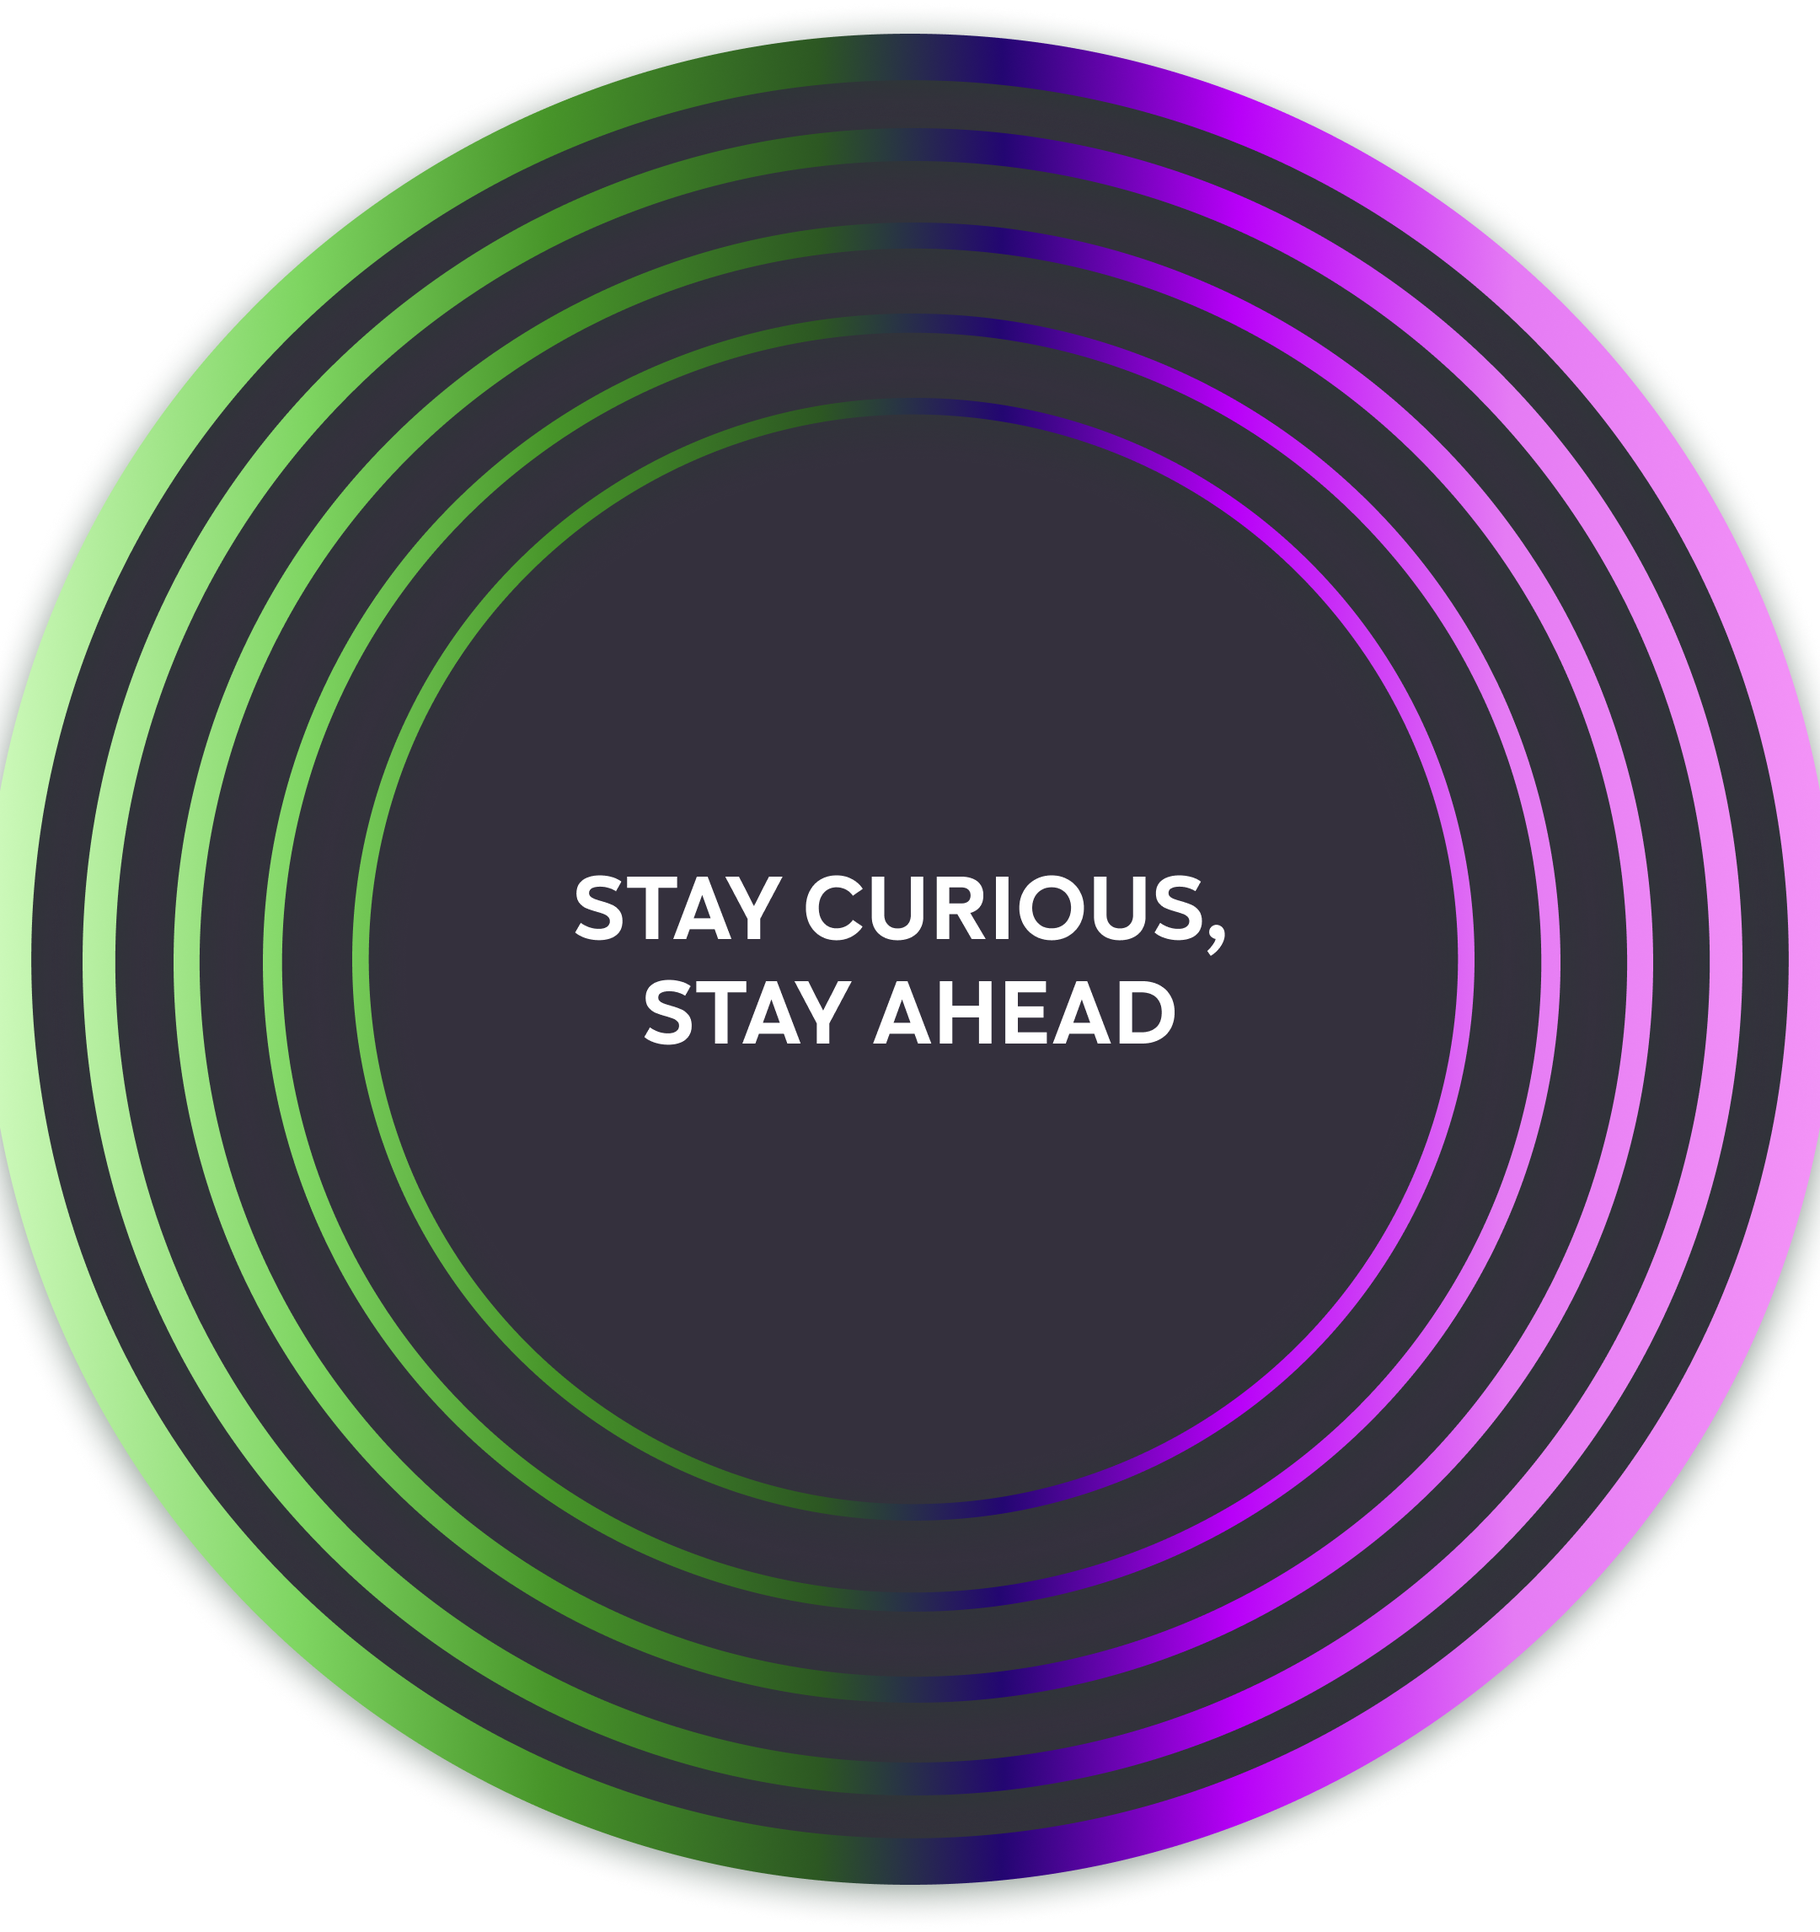
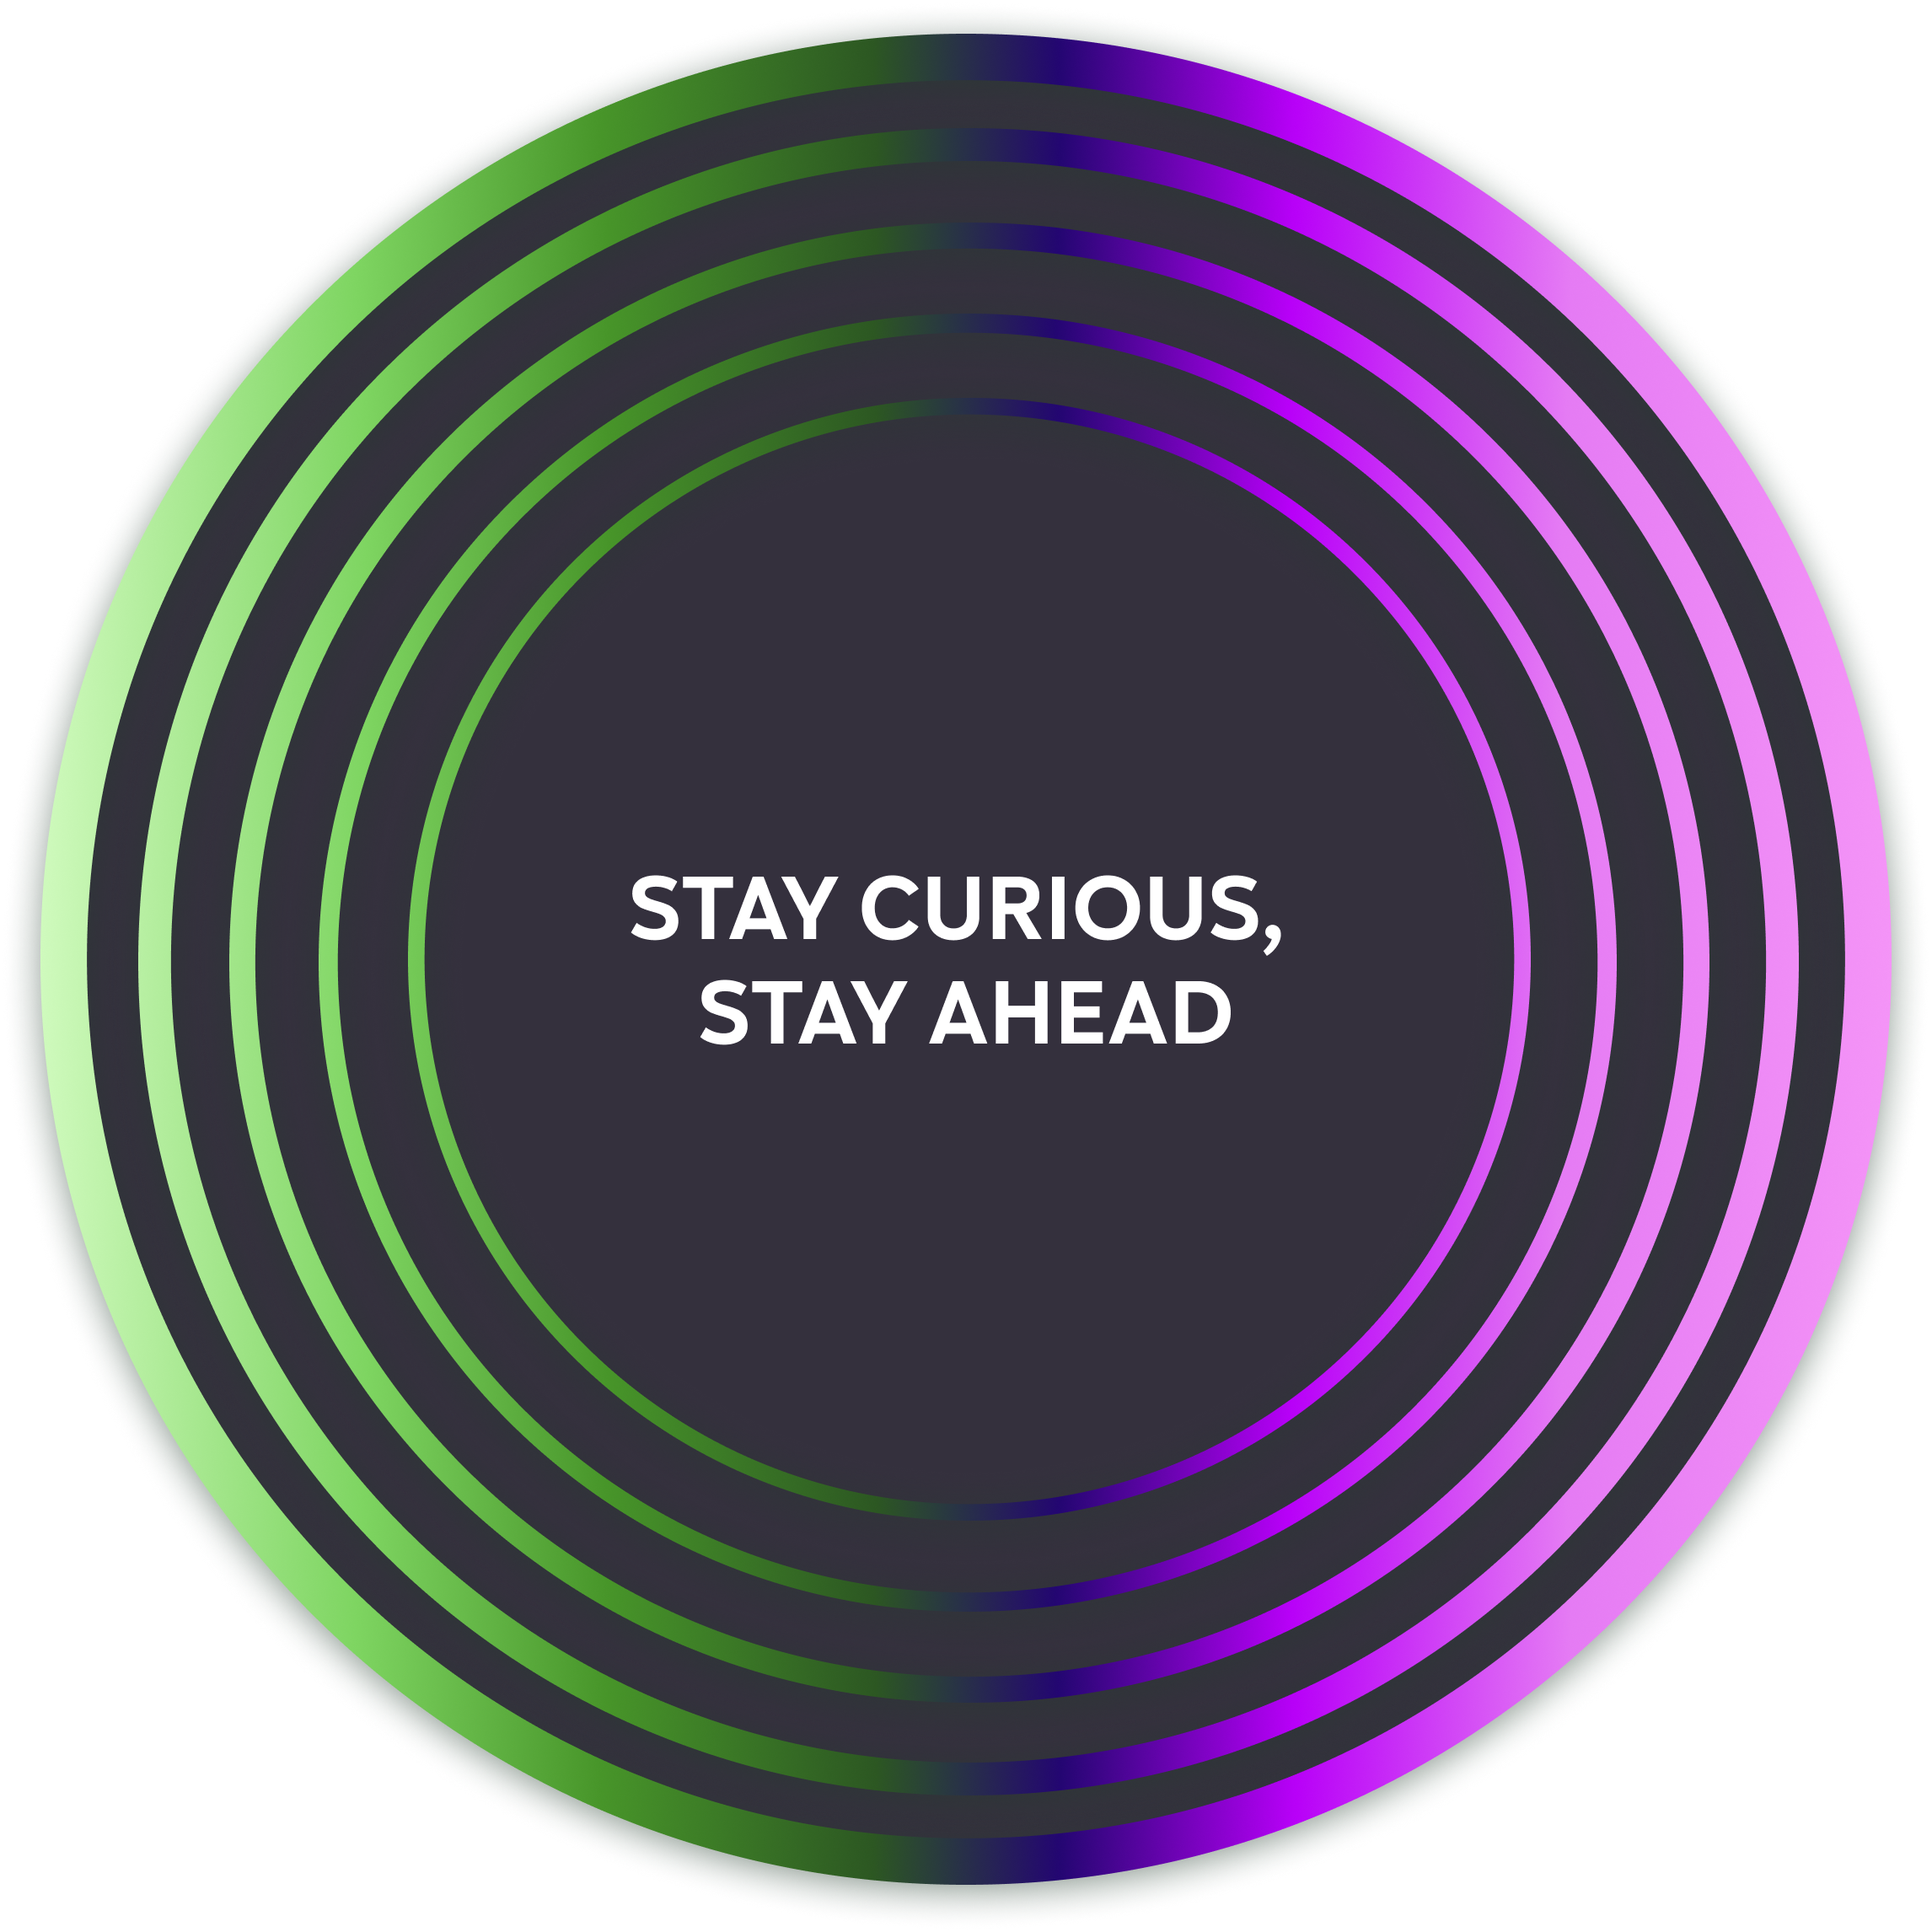
fix circle animation

diff --git a/js/app-iqos.js b/js/app-iqos.js
@@ -58,9 +58,13 @@ function goToGameplay(){
     $("#sectionGameplay").removeClass("hide")
     $(".circle").removeClass("off")
 }
+// DEBUG
+// goToGameplay()
 
 function gameEnd(win){
     perfectSound.play()
+    finished = false
+    reset()
     pageStatus = 'endGame'
     $(".circle").addClass("off")
     if(win == 1){
@@ -98,8 +102,6 @@ function onKey1() {
         pageStart(1)
     }else if(pageStatus == 'playerReady'){
         goToCountdown()
-    }else if(pageStatus == 'gameplay'){
-        gameEnd(1)
     }
 }
 
@@ -108,48 +110,178 @@ function onKey2() {
         pageStart(2)
     }else if(pageStatus == 'playerReady'){
         goToCountdown()
-    }else if(pageStatus == 'gameplay'){
-        gameEnd(2)
     }
 }
 
   // Helper: abaikan jika user sedang mengetik di field form
-  function isTypingInField(el) {
-    if (!el) return false;
-    const tag = el.tagName ? el.tagName.toLowerCase() : '';
-    const editable = $(el).attr('contenteditable') === 'true';
-    return tag === 'input' || tag === 'textarea' || editable;
-  }
+//   function isTypingInField(el) {
+//     if (!el) return false;
+//     const tag = el.tagName ? el.tagName.toLowerCase() : '';
+//     const editable = $(el).attr('contenteditable') === 'true';
+//     return tag === 'input' || tag === 'textarea' || editable;
+//   }
 
-  // Tangkap keydown sekali (hindari repeat)
-  let pressed = new Set();
+//   // Tangkap keydown sekali (hindari repeat)
+//   let pressed = new Set();
 
-  $(document).on('keydown', function (e) {
-    if (isTypingInField(document.activeElement)) return;
+//   $(document).on('keydown', function (e) {
+//     if (isTypingInField(document.activeElement)) return;
 
-    // e.key akan '1' / '2'
-    // e.code bisa 'Digit1' / 'Numpad1'
-    const is1 = e.key === '1' || e.code === 'Digit1' || e.code === 'Numpad1';
-    const is2 = e.key === '2' || e.code === 'Digit2' || e.code === 'Numpad2';
+//     // e.key akan '1' / '2'
+//     // e.code bisa 'Digit1' / 'Numpad1'
+//     const is1 = e.key === '1' || e.code === 'Digit1' || e.code === 'Numpad1';
+//     const is2 = e.key === '2' || e.code === 'Digit2' || e.code === 'Numpad2';
 
-    if (is1 && !pressed.has('1')) {
-      pressed.add('1');
-      e.preventDefault();
-      onKey1();
+//     if (is1 && !pressed.has('1')) {
+//       pressed.add('1');
+//       e.preventDefault();
+//       onKey1();
+//     }
+//     if (is2 && !pressed.has('2')) {
+//       pressed.add('2');
+//       e.preventDefault();
+//       onKey2();
+//     }
+//   });
+
+//   // Lepaskan status saat keyup supaya bisa dipicu lagi
+//   $(document).on('keyup', function (e) {
+//     if (['1', 'Digit1', 'Numpad1'].includes(e.key) || e.code === 'Digit1' || e.code === 'Numpad1') {
+//       pressed.delete('1');
+//     }
+//     if (['2', 'Digit2', 'Numpad2'].includes(e.key) || e.code === 'Digit2' || e.code === 'Numpad2') {
+//       pressed.delete('2');
+//     }
+//   });
+
+
+// =====================================================
+    // Geometry
+    const cx = 300, cy = 300, r = 153;
+    const rOuter = 240;
+    const step = 6; // derajat per tekan
+    // Start di bawah (180°)
+    let greenAngle  = 180; // bergerak ke 0 (CCW)
+    let purpleAngle = 180; // bergerak ke 360 (CW)
+    let finished = false;
+  
+    const $gArc = $("#greenArc");
+    const $pArc = $("#purpleArc");
+    const $gOrb = $("#greenOrb");
+    const $pOrb = $("#purpleOrb");
+  
+    function toRad(d){ return d * Math.PI/180; }
+    function polar(angleDeg, radius = r) {
+        const a = toRad(angleDeg);
+        return { x: cx + radius * Math.cos(a), y: cy + radius * Math.sin(a) };
     }
-    if (is2 && !pressed.has('2')) {
-      pressed.add('2');
-      e.preventDefault();
-      onKey2();
+  
+    // SVG arc path dari angle A ke B, arah CW/CCW
+    function arcPath(fromDeg, toDeg, sweepCW){
+      // clamp
+      if (sweepCW) { if (toDeg < fromDeg) toDeg = fromDeg; }
+      else { if (toDeg > fromDeg) toDeg = fromDeg; }
+  
+      const start = polar(fromDeg);
+      const end   = polar(toDeg);
+      const delta = Math.abs(toDeg - fromDeg);
+      const large = (delta > 180) ? 1 : 0;
+      const sweep = sweepCW ? 1 : 0;
+      return `M ${start.x.toFixed(2)} ${start.y.toFixed(2)} A ${r} ${r} 0 ${large} ${sweep} ${end.x.toFixed(2)} ${end.y.toFixed(2)}`;
     }
-  });
+  
+    function placeOrb($el, angle, radius = r) {
+        const p = polar(angle, radius);
+        $el.attr({ cx: p.x, cy: p.y });
+    }
+    function placeOrbImage($el, angle, radius, size) {
+        const p = polar(angle, radius);
+        $el.attr({
+          x: p.x - size/2,
+          y: p.y - size/2
+        });
+    }
+  
+    function draw(){
+      // green: dari 180 -> greenAngle (CCW)
+      $gArc.attr('d', arcPath(180, greenAngle, /*CW?*/ false));
+      // purple: dari 180 -> purpleAngle (CW)
+      $pArc.attr('d', arcPath(180, purpleAngle, /*CW?*/ true));
+  
+    //   placeOrb($pOrb, greenAngle, rOuter);
+    //   placeOrb($gOrb, purpleAngle, rOuter);
+      
+      placeOrbImage($pOrb, greenAngle, rOuter, 80);
+      placeOrbImage($gOrb, purpleAngle, rOuter, 80);
 
-  // Lepaskan status saat keyup supaya bisa dipicu lagi
-  $(document).on('keyup', function (e) {
-    if (['1', 'Digit1', 'Numpad1'].includes(e.key) || e.code === 'Digit1' || e.code === 'Numpad1') {
-      pressed.delete('1');
     }
-    if (['2', 'Digit2', 'Numpad2'].includes(e.key) || e.code === 'Digit2' || e.code === 'Numpad2') {
-      pressed.delete('2');
+  
+    function checkWin(){
+        if (finished) return;
+        if (greenAngle <= 0 && purpleAngle >= 360){
+          finished = true;
+          setStatus('🤝 Draw! Kalian bertemu di puncak');
+        } else if (greenAngle <= 0){
+          finished = true;
+          console.log("PURPLE MENANG")
+          gameEnd(2)
+        } else if (purpleAngle >= 360){
+          finished = true;
+          console.log("GREEN MENANG")
+          gameEnd(1)
+        }
     }
-  });
+  
+    function reset(){
+      greenAngle = 180;
+      purpleAngle = 180;
+      finished = false;
+      draw();
+    }
+  
+    // --- Controls ---
+    // hindari repeat saat key ditahan
+    let pressed = new Set();
+  
+    $(document).on('keydown', function(e){
+      if (pressed.has(e.code)) return;
+      pressed.add(e.code);
+  
+      if (finished && e.key === 'Enter'){ reset(); return; }
+  
+      if (finished) return;
+  
+      if (e.key === '2' || e.code === 'Digit1' || e.code === 'Numpad1'){
+        if(pageStatus == 'gameplay'){
+            greenAngle -= step;
+            if (greenAngle <= 0) greenAngle = 0; // clamp
+            draw();
+            checkWin();
+            e.preventDefault();
+        }else{
+            onKey2();
+        }
+      }
+      
+      if (e.key === '1' || e.code === 'Digit2' || e.code === 'Numpad2'){
+        if(pageStatus == 'gameplay'){
+            purpleAngle += step;
+            if (purpleAngle >= 360) purpleAngle = 360; // clamp
+            draw();
+            checkWin();
+            e.preventDefault();
+        }else{
+            onKey1();
+        }
+      }
+      if (e.key === 'Enter'){
+        reset();
+      }
+    });
+  
+    $(document).on('keyup', function(e){
+      pressed.delete(e.code);
+    });
+  
+    // init
+    draw();

diff --git a/index.html b/index.html
@@ -66,6 +66,44 @@
         <div class="section hide" id="sectionGameplay">
             <div class="frame">
                 <div class="inner">
+                    <div class="stage">
+                        <div class="stage-circle-text">
+                            <div class="block-image"><img src="./assets/images/NEW-CIRCLE-TEXT.png" alt="Kalbe"></div>
+                        </div>
+                        <svg id="arena" viewBox="0 0 600 600">
+                          <!-- defs -->
+                          <defs>
+                            <radialGradient id="gradGreen" cx="50%" cy="50%">
+                              <stop offset="0%"  stop-color="#7CFFA1"/>
+                              <stop offset="100%" stop-color="#2BFF5E"/>
+                            </radialGradient>
+                            <radialGradient id="gradPurple" cx="50%" cy="50%">
+                              <stop offset="0%"  stop-color="#E0B3FF"/>
+                              <stop offset="100%" stop-color="#9C57FF"/>
+                            </radialGradient>
+                            <filter id="glow" x="-50%" y="-50%" width="200%" height="200%">
+                              <feGaussianBlur stdDeviation="6" result="blur"/>
+                              <feMerge>
+                                <feMergeNode in="blur"/>
+                                <feMergeNode in="SourceGraphic"/>
+                              </feMerge>
+                            </filter>
+                          </defs>
+                    
+                          <!-- dynamic arcs -->
+                          <path id="greenArc"  class="arc-green"  d=""/>
+                          <path id="purpleArc" class="arc-purple" d=""/>
+                          
+                          <circle class="outer" cx="600" cy="600" r="240"></circle>
+
+                          <!-- orbs -->
+                          <image id="greenOrb" href="./assets/images/NEW-P1-C.png" width="80" height="80" x="284" y="284" class="orb" />
+                          <image id="purpleOrb" href="./assets/images/NEW-P2-C.png" width="80" height="80" x="284" y="284" class="orb" />
+
+                          <!-- <circle id="greenOrb"  class="orb g" r="16" cx="600" cy="600"/> -->
+                          <!-- <circle id="purpleOrb" class="orb p" r="16" cx="600" cy="600"/> -->
+                        </svg>
+                    </div>
                     <div class="block-image circle off"><img src="./assets/images/NEW-CIRCLE.png" alt="Kalbe"></div>
                 </div>
             </div>

diff --git a/css/main.css b/css/main.css
@@ -58,3 +58,41 @@ html,body,div,span,applet,object,iframe,h1,h2,h3,h4,h5,h6,p,blockquote,pre,a,abb
         .circle.off{
             transform: scale(.8);
         }
+
+
+
+:root { --size: 520px; --ring: 170; }
+#arena2{
+    position: absolute;
+    top: 0;left: 0;right: 0;bottom: 0;
+    width: 100%;
+}
+.stage {
+    position: absolute;
+    top: 0;left: 0;right: 0;bottom: 0;
+    z-index: 10;
+    display: flex;align-items: center;justify-content: center;
+}
+.stage-circle-text{
+    position: absolute;
+    top: 0;left: 0;right: 0;bottom: 0;
+    display: flex;align-items: center;justify-content: center;
+    z-index: 20;
+}  
+    .stage-circle-text .block-image{
+        width: 54%;
+    }
+
+svg{ width:100%; height:100%;transform: rotate(-90deg);}
+.base { stroke:#2a2630; stroke-width:22; fill:none; }
+.outer {
+    stroke: rgba(255,255,255,0); /* warna dan transparansi */
+    stroke-width: 4;
+    fill: none;
+  }
+.arc-green { stroke:url(#gradPurple); stroke-width:38px; fill:none; }
+.arc-purple{ stroke:url(#gradGreen); stroke-width:38px; fill:none; }
+
+.orb { filter:url(#glow); }
+.g { fill:#6BFF6B; }
+.p { fill:#B06BFF; }
